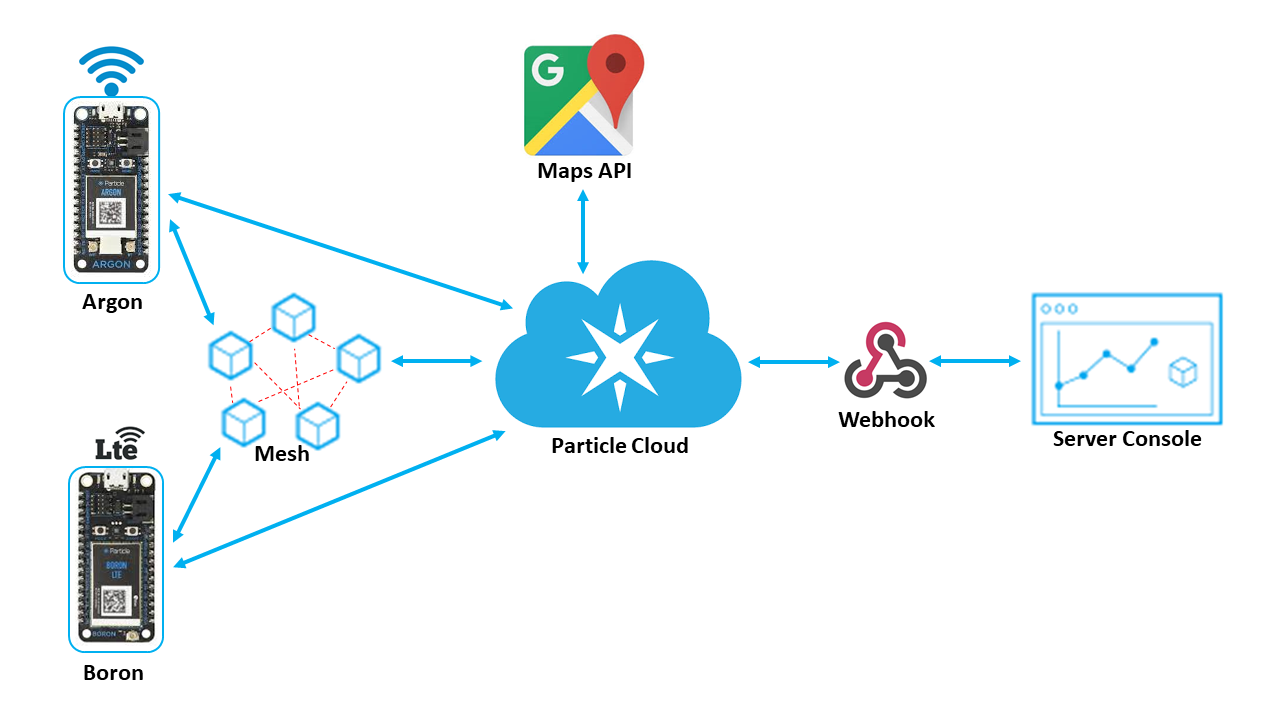
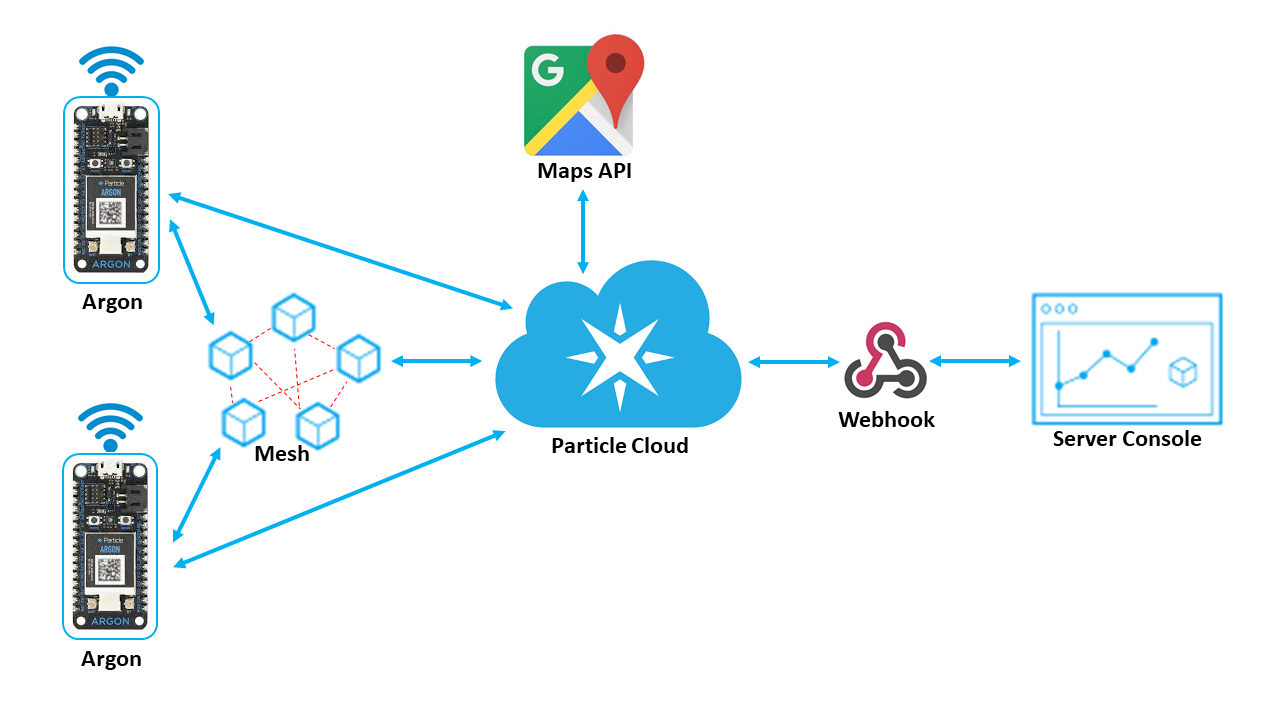
update README

Changed region(s): [[0.0312, 0.55, 0.125, 0.9472]]

diff --git a/README.md b/README.md
@@ -10,7 +10,7 @@ Also, the system tries to provide the geolocation of the device which is sending
 <img src="images/schematic.png">
 
 ## Devices
-This project was made using the Argon (Bluetooth + WiFi) and Boron (Bluetooth + LTE) IOT boards from [Particle](https://www.particle.io/).
+This project was made using the Argon (Bluetooth + WiFi) IOT boards from [Particle](https://www.particle.io/).
 These devices have in-built mesh networking capabilities (currently being depricated; unavailable after Jan 2021).
 
 ## Integrations
@@ -33,3 +33,18 @@ The server for this project was created by [Kaustubh Trivedi](https://github.com
 The django-server directory contains the code for the server.
 
 Please refer the readme in django-server for details.
+
+## The Console
+The admin dashboard for this project is contained in a separate repository [meshsos-dashboard](https://github.com/bhavyejain/meshsos-dashboard).
+
+This console provides a minimalistic interface for emergency services providers to locate the device that sent the SOS call, get the optimal directions to reach them, and manage flow of  handling of emergency calls. Please have a look at the README in the meshsos-dashboard repository for more detailed information.
+
+## Future Developments
+Due to the current inavalability of LTE Cat M1 supported SIM cards in India, we were not able to add the Particle Borons to the mesh network. We plan to inctroduce devices with LTE capability in the mesh so that the newtwork is not solely reliant on WiFi for its functioning.
+
+The project might explore possibility of data analytics to recommend deployment of emergency services vehicles once enough data can be obtained to develop a reliable analytics system. Currently, only a simple visualization of the events is provided in the admin dashboard of the project.
+
+Since Particle will be removing the support for mesh networking, we might build a MeshSOS Cloud to process incoming requests instead of the Particle cloud. This could be a complex component to develop and might remain on the design board until it is necessary to build.
+
+The future schematic of the system might look like this:
+<img src="images/schematic_future.png">
